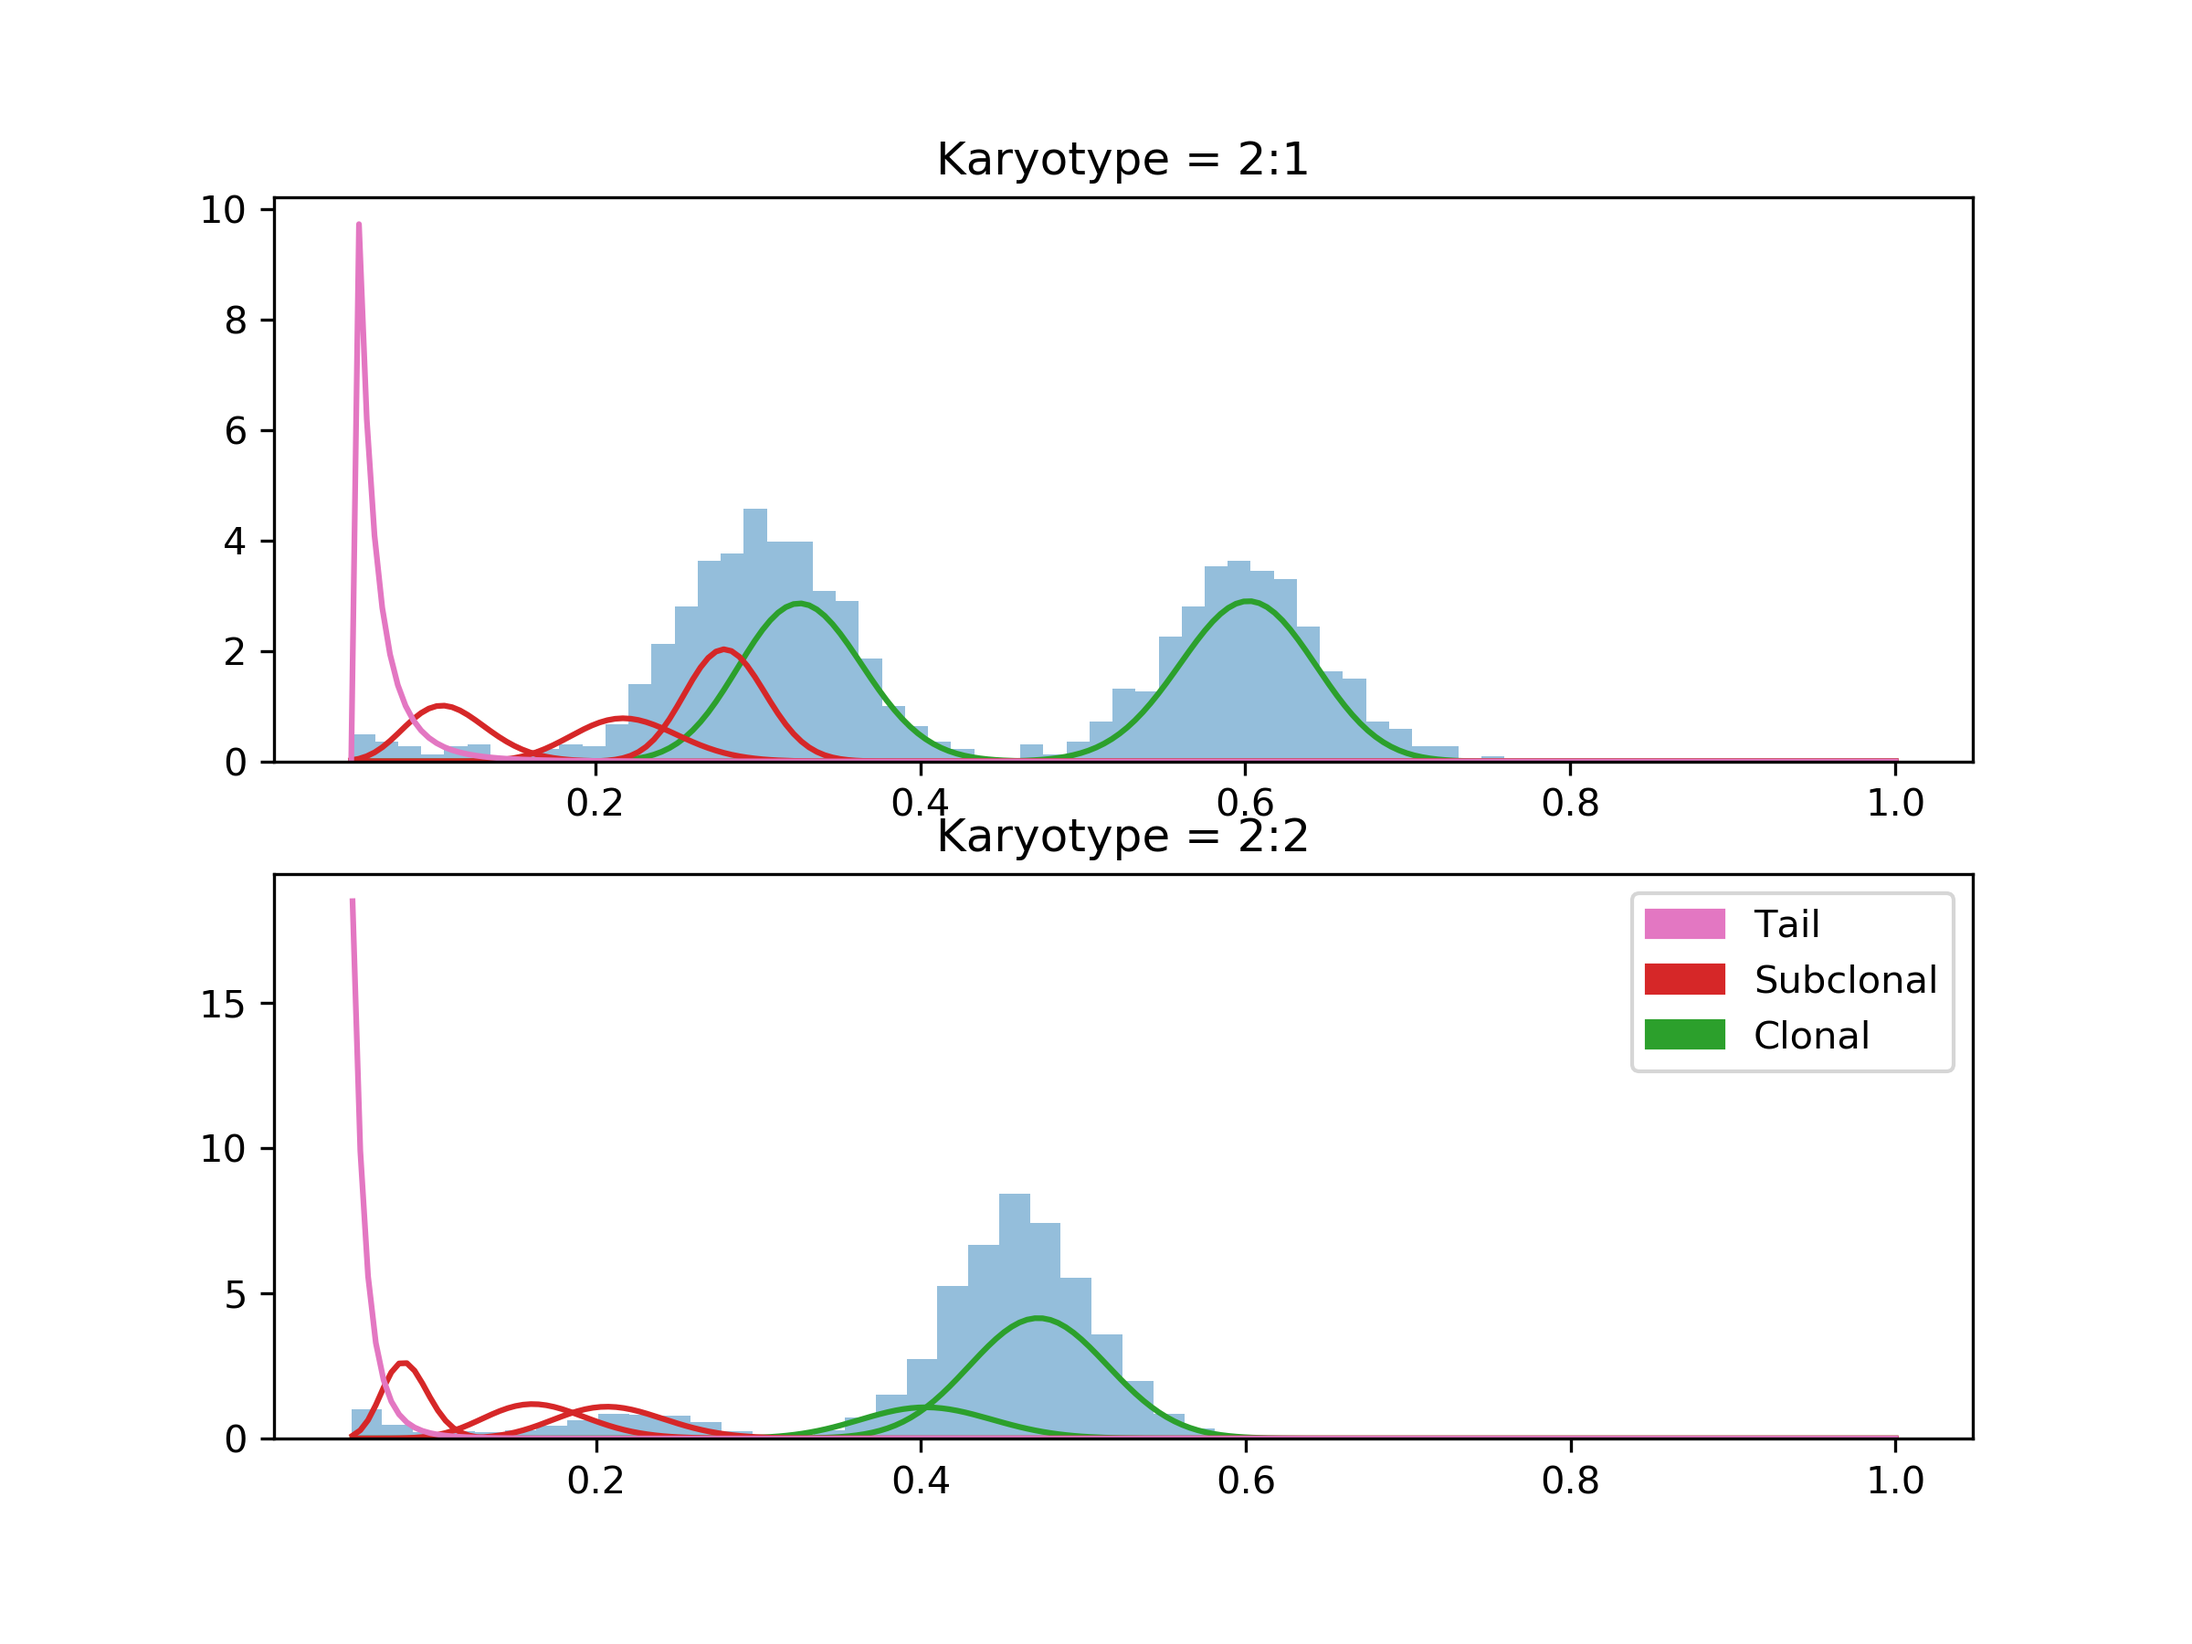
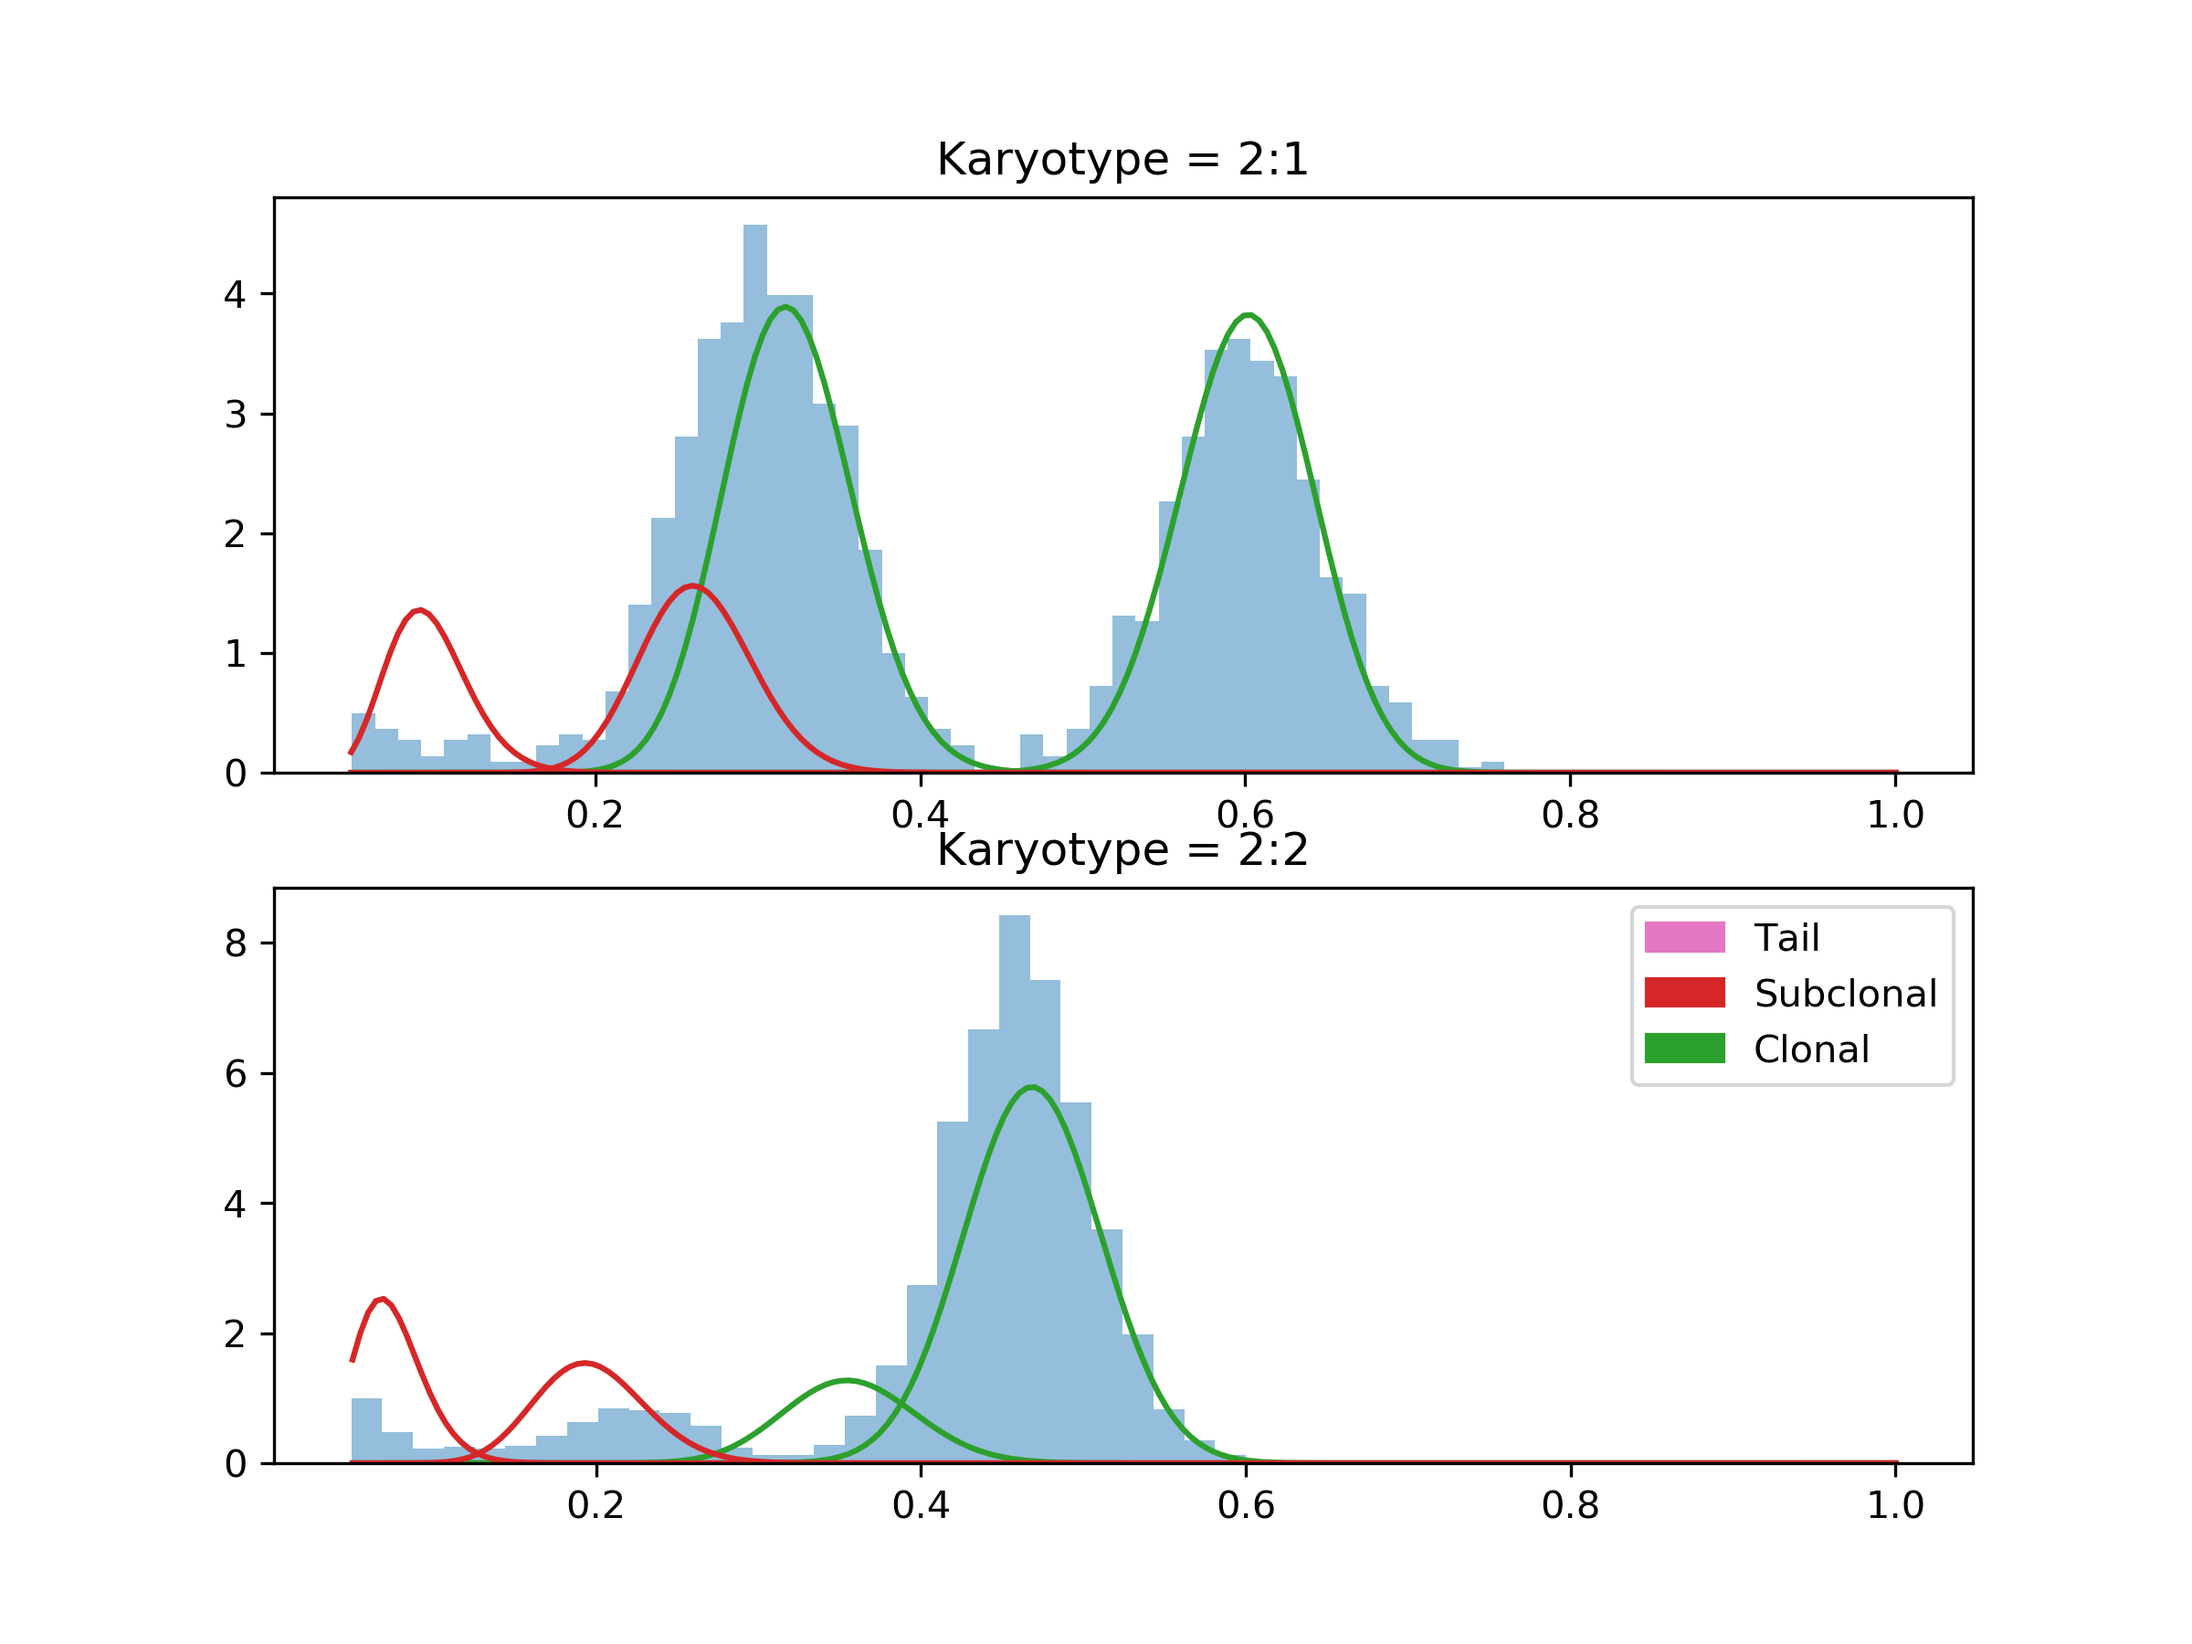
bugfix

diff --git a/mobster/model_mobster.py b/mobster/model_mobster.py
@@ -89,16 +89,19 @@ def model(data, K=1, tail=1, truncated_pareto = True, purity=0.96,  number_of_tr
     #ccf_priors = ((torch.min(torch.tensor(1) * purity) - 0.001) / (K + 1)) * torch.arange(1,K+1)
     #subclonal_ccf = pyro.sample("sb_ccf", dist.Beta(ccf_priors * number_of_trials_k, (1-ccf_priors) * number_of_trials_k))
 
-    subclonal_ccf = pyro.sample("sb_ccf",
-                                dist.Uniform(0.000001, 0.99999))
+    if K != 0:
+        with pyro.plate("subclones", K):
+            subclonal_ccf = pyro.sample("sb_ccf",
+                                       dist.Uniform(0.000001, 0.99999))
 
     # We enter the karyotype plate
     # We may think about tensorizing it
     for kr in pyro.plate("kr", len(karyos)):
-
-        adj_ccf = subclonal_ccf * mut.ccf_adjust[karyos[kr]]
-        k_means = pyro.sample('beta_subclone_mean_{}'.format(kr),
-                              dist.Uniform(adj_ccf - epsilon_ccf, adj_ccf + epsilon_ccf))
+        if K != 0:
+            with pyro.plate("subclones_{}".format(kr), K):
+                adj_ccf = subclonal_ccf * mut.ccf_adjust[karyos[kr]]
+                k_means = pyro.sample('beta_subclone_mean_{}'.format(kr),
+                                      dist.Uniform(adj_ccf - epsilon_ccf, adj_ccf + epsilon_ccf))
 
         # We construct two different computational graphs for cases with 2 and 1 clonal clusters
         if theoretical_num_clones[kr] == 2:

diff --git a/mobster/guide_mobster.py b/mobster/guide_mobster.py
@@ -48,13 +48,14 @@ def guide(data, K=1, tail=1, truncated_pareto = True, purity=0.96, clonal_beta_v
 
     alpha_prior = pyro.sample('u', dist.Delta(a_prior))
 
+
     ccf_priors = pyro.param("ccf_priors",
         ((torch.min(torch.tensor(1) * purity) - 0.001) / (K + 1)) * torch.arange(1,K+1),
                             constraint=constraints.unit_interval
                             )
-
-
-    subclonal_ccf = pyro.sample("sb_ccf", dist.Delta(ccf_priors))
+    if K != 0:
+        with pyro.plate("subclones", K):
+            subclonal_ccf = pyro.sample("sb_ccf", dist.Delta(ccf_priors).to_event(0))
 
     idx1 = 0
     idx2 = 0
@@ -72,10 +73,11 @@ def guide(data, K=1, tail=1, truncated_pareto = True, purity=0.96, clonal_beta_v
 
 
     for kr in pyro.plate("kr", len(karyos)):
-
-        adj_ccf = subclonal_ccf * mut.ccf_adjust[karyos[kr]]
-        pyro.sample('beta_subclone_mean_{}'.format(kr),
-                              dist.Uniform(adj_ccf - epsilon_ccf, adj_ccf + epsilon_ccf))
+        if K != 0:
+            with pyro.plate("subclones_{}".format(kr), K):
+                adj_ccf = subclonal_ccf * mut.ccf_adjust[karyos[kr]]
+                pyro.sample('beta_subclone_mean_{}'.format(kr),
+                                      dist.Uniform(adj_ccf - epsilon_ccf, adj_ccf + epsilon_ccf))
 
         if theoretical_num_clones[kr] == 2:
 

diff --git a/mobster/utils_mobster.py b/mobster/utils_mobster.py
@@ -128,27 +128,27 @@ def rename_clusters(x,tail, theo_c, K):
     base_idx = 0
     clonal_num = 1
     subclonal_num = 1
-    order_vec = np.array([],dtype='object')
+    order_vec = []
 
     ###  IDENTIFY TAIL MUTATIONS ###
     if tail == 1:
         res[x == 0] = "Tail"
-        np.append(order_vec, "Tail")
+        order_vec.append("Tail")
         base_idx += 1
 
     ### IDENTIFY CLONAL MUTATIONS ###
     for i in range(base_idx, base_idx + theo_c):
         res[x == i] = "C" + str(clonal_num)
-        np.append(order_vec, "C" + str(clonal_num))
+        order_vec.append("C" + str(clonal_num))
         clonal_num += 1
 
     ### IDENTIFY SUBCLONAL MUTATIONS ###
     for i in range(base_idx + theo_c, base_idx + theo_c + K):
         res[x == i] = "S" + str(subclonal_num)
-        np.append(order_vec, "S" + str(subclonal_num))
+        order_vec.append("S" + str(subclonal_num))
         subclonal_num += 1
 
-    return res,order_vec
+    return res,np.array(order_vec)
 
 def include_ccf(data, params, K):
 

diff --git a/setup.py b/setup.py
@@ -5,7 +5,7 @@ from setuptools import setup
 #        return f.read()
 
 setup(name='HMOBSTER',
-      version='0.0.38',
+      version='0.0.41',
       description='VAF clustering for multiple karyotypes',
       url='https://github.com/Militeee/hmobster',
       author='Salvatore Milite',
@@ -18,7 +18,6 @@ setup(name='HMOBSTER',
             'pyro-ppl>=0.4',
             'numpy>=1.18',
             'scikit-learn',
-            'seaborn'
 
       ],
       include_package_data=True,

diff --git a/mobster/interface_mobster.py b/mobster/interface_mobster.py
@@ -1,6 +1,5 @@
 import pandas as pd
 import numpy as np
-import seaborn as sns
 import tqdm
 
 import pyro as pyro
